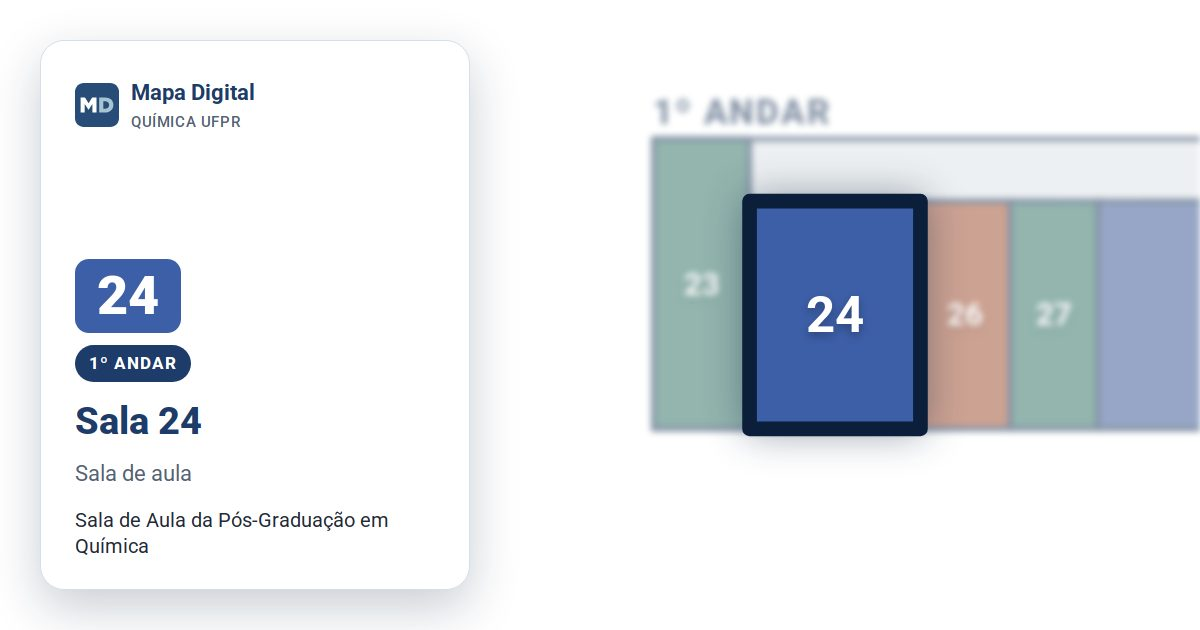
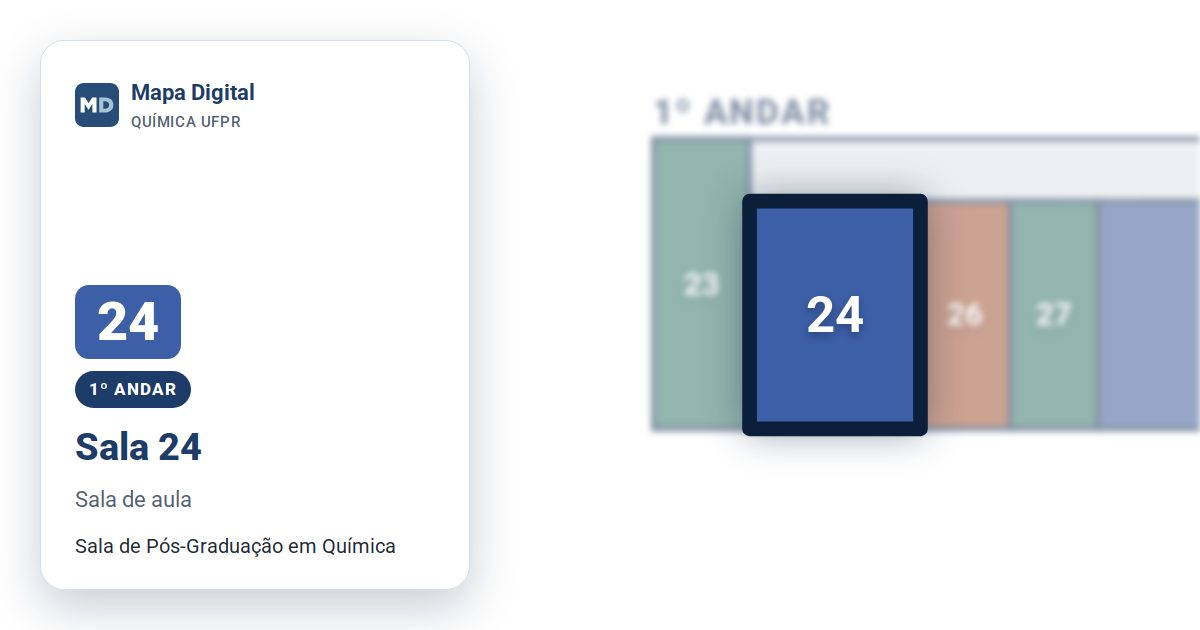
Mapa: atualiza as prévias de compartilhamento

Changed region(s): [[0.0617, 0.3921, 0.3392, 0.9048]]

diff --git a/mapa/l/24.html b/mapa/l/24.html
@@ -6,13 +6,13 @@
   <meta name="robots" content="noindex">
   <!-- Gerada por mapa/scripts/gerar_compartilhamento.js: não edite à mão -->
   <title>Sala 24 · Sala de aula (1º andar) · Mapa Digital</title>
-  <meta name="description" content="1º andar · Sala de aula. Sala de Aula da Pós-Graduação em Química. Veja onde fica na planta do Departamento de Química da UFPR.">
+  <meta name="description" content="1º andar · Sala de aula. Sala de Pós-Graduação em Química. Veja onde fica na planta do Departamento de Química da UFPR.">
   <meta property="og:type" content="website">
   <meta property="og:site_name" content="DQ Digital">
   <meta property="og:title" content="Sala 24 · Sala de aula (1º andar)">
-  <meta property="og:description" content="1º andar · Sala de aula. Sala de Aula da Pós-Graduação em Química. Veja onde fica na planta do Departamento de Química da UFPR.">
+  <meta property="og:description" content="1º andar · Sala de aula. Sala de Pós-Graduação em Química. Veja onde fica na planta do Departamento de Química da UFPR.">
   <meta property="og:url" content="https://dqufpr.github.io/mapa/l/24">
-  <meta property="og:image" content="https://dqufpr.github.io/mapa/img/compartilhar/24.jpg?v=e5bd8ba0">
+  <meta property="og:image" content="https://dqufpr.github.io/mapa/img/compartilhar/24.jpg?v=5b1c2aae">
   <meta property="og:image:type" content="image/jpeg">
   <meta property="og:image:width" content="1200">
   <meta property="og:image:height" content="630">
@@ -20,8 +20,8 @@
   <meta property="og:locale" content="pt_BR">
   <meta name="twitter:card" content="summary_large_image">
   <meta name="twitter:title" content="Sala 24 · Sala de aula (1º andar)">
-  <meta name="twitter:description" content="1º andar · Sala de aula. Sala de Aula da Pós-Graduação em Química. Veja onde fica na planta do Departamento de Química da UFPR.">
-  <meta name="twitter:image" content="https://dqufpr.github.io/mapa/img/compartilhar/24.jpg?v=e5bd8ba0">
+  <meta name="twitter:description" content="1º andar · Sala de aula. Sala de Pós-Graduação em Química. Veja onde fica na planta do Departamento de Química da UFPR.">
+  <meta name="twitter:image" content="https://dqufpr.github.io/mapa/img/compartilhar/24.jpg?v=5b1c2aae">
   <link rel="icon" href="/favicon.ico" sizes="48x48">
   <link rel="icon" href="/mapa/img/favicon.svg" type="image/svg+xml">
   <link rel="icon" href="/img/favicon-192.png" type="image/png" sizes="192x192">
